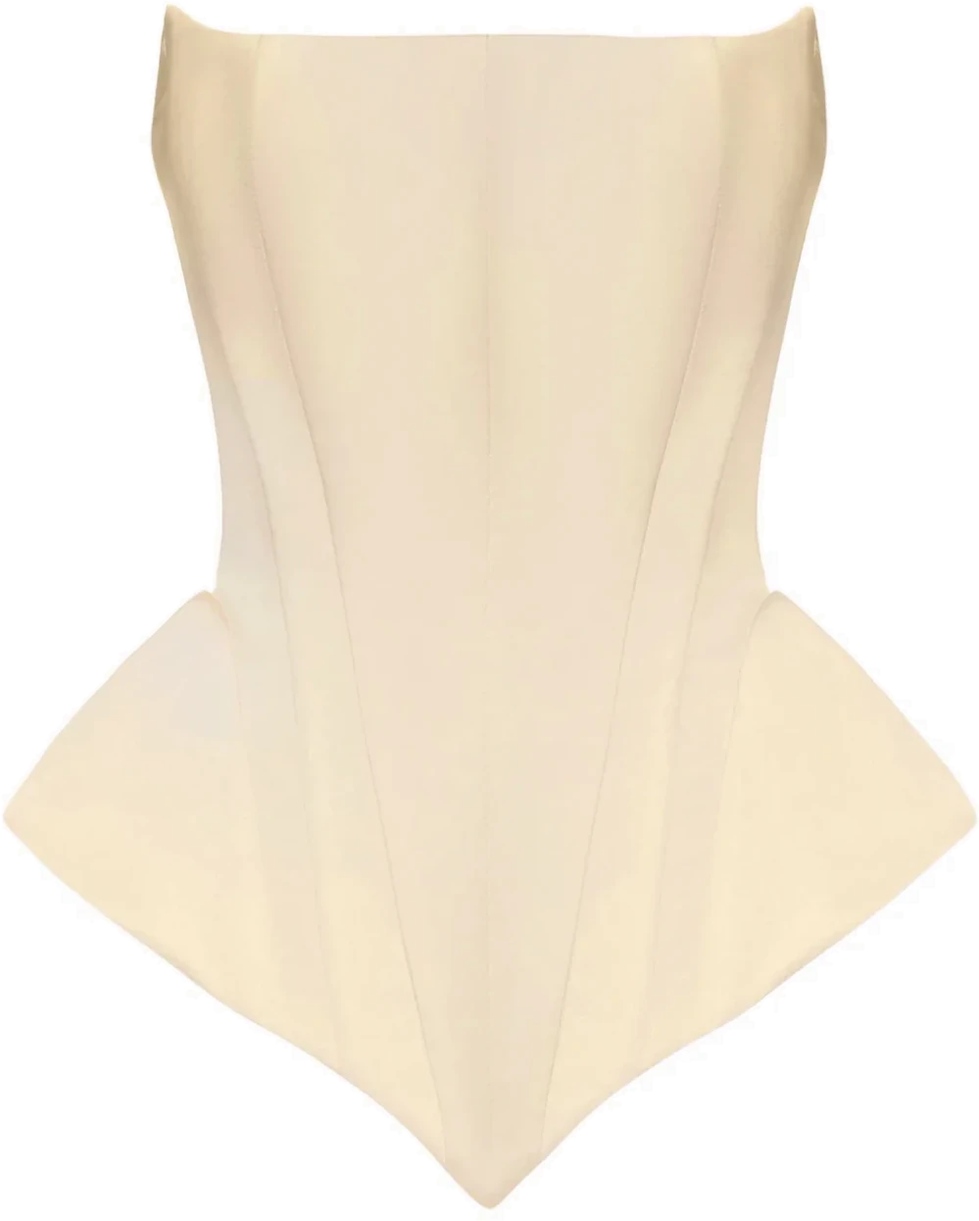
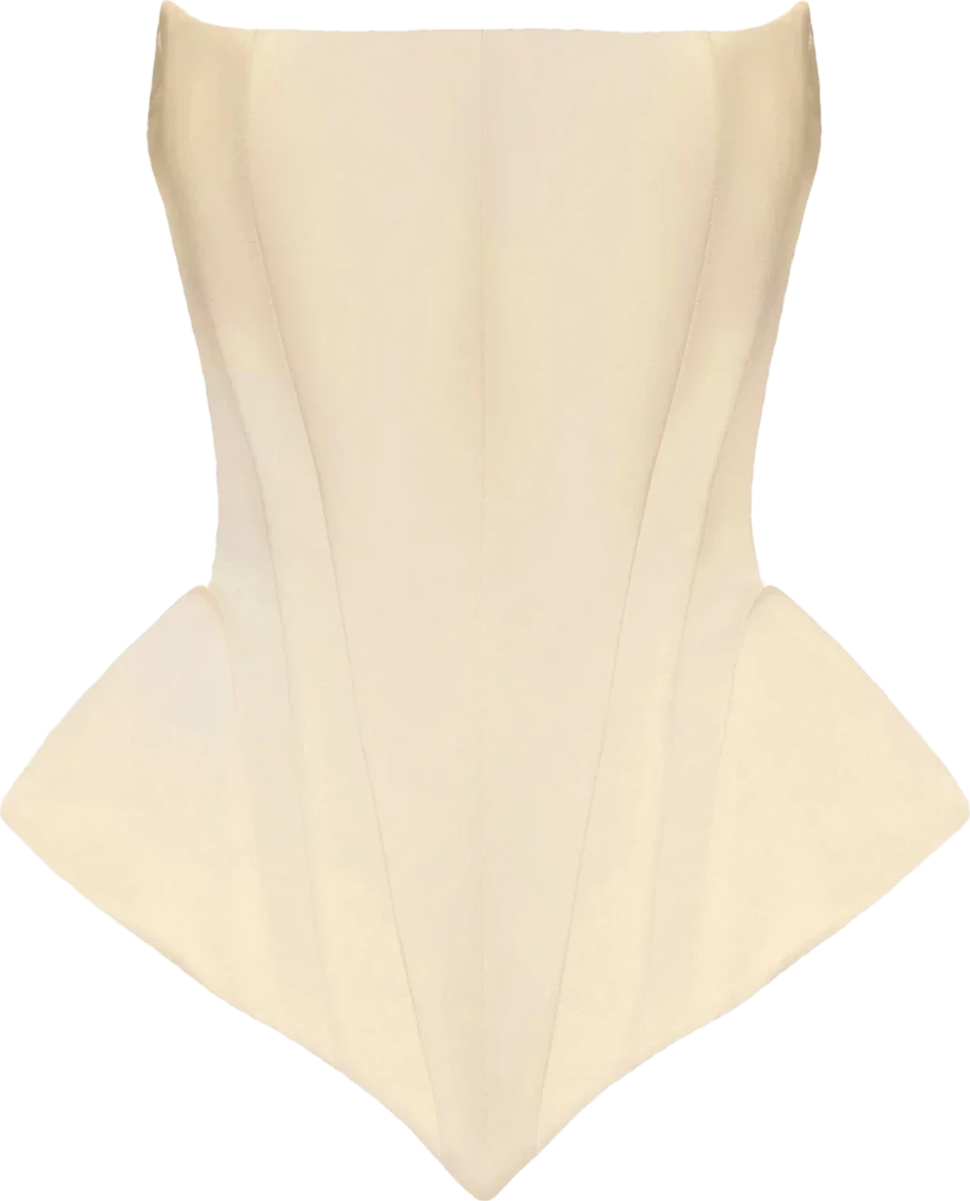
View by product: type filters (clutches/small/large bags, shorts/skirts/pants/jeans, heels…sneakers) and colour-aware order; Cow Print option B; Maria opens Christmas, Wedding, Workouts; Ivory & Leopard first; Pony & Organza pulled; corset recut

diff --git a/index.html b/index.html
@@ -222,6 +222,11 @@ html.loading,html.loading body{overflow:hidden}
 .tabs button small{color:var(--grey);margin-left:var(--s1)}
 .tabs button[aria-pressed="true"]{background:var(--ink);color:var(--white);border-color:var(--ink)}
 .tabs button[aria-pressed="true"] small{color:#bbb}
+.subtabs{display:flex;justify-content:center;flex-wrap:wrap;gap:var(--s2) var(--s6);margin:calc(var(--s6) * -1) 0 var(--s12)}
+.subtabs[hidden]{display:none}
+.subtabs button{font-family:var(--sans);font-size:12px;letter-spacing:.16em;text-transform:uppercase;color:var(--grey);padding:var(--s1) 0;border-bottom:1px solid transparent;transition:color .3s,border-color .3s}
+.subtabs button:hover{color:var(--ink)}
+.subtabs button[aria-pressed="true"]{color:var(--ink);border-color:var(--ink)}
 .grid{display:grid;grid-template-columns:repeat(4,1fr);gap:var(--s12) var(--s6)}
 .grid .card .from{font-family:var(--sans);font-size:12px;letter-spacing:.14em;text-transform:uppercase;color:var(--burnt);margin-top:var(--s3)}
 
@@ -325,6 +330,8 @@ footer .wrap{font-family:var(--sans);font-size:13px;color:var(--grey)}
   .card .ph img{top:7%;left:11%;width:78%;height:66%}
   .tabs{flex-wrap:nowrap;justify-content:flex-start;overflow-x:auto;scrollbar-width:none;margin-inline:-16px;padding-inline:16px;margin-block:var(--s6) var(--s8)}
   .tabs button{flex:none}
+  .subtabs{flex-wrap:nowrap;justify-content:flex-start;overflow-x:auto;scrollbar-width:none;margin-inline:-16px;padding-inline:16px;margin-block:calc(var(--s4) * -1) var(--s8)}
+  .subtabs button{flex:none}
   .grid{grid-template-columns:repeat(2,1fr);gap:var(--s8) var(--s3)}
   .stack-card{top:calc(24px + var(--i) * 12px);min-height:240px;padding:var(--s8) var(--s6)}
   .stack-card p{font-size:16px}
@@ -437,6 +444,7 @@ footer .wrap{font-family:var(--sans);font-size:13px;color:var(--grey)}
     <a class="back" href="#home">Back to the looks</a>
     <header class="shop-head"><span class="kicker">View by product</span><h2>Every piece, by category</h2></header>
     <div class="tabs" id="tabs" role="toolbar" aria-label="Categories"></div>
+    <div class="subtabs" id="subtabs" role="toolbar" aria-label="Type" hidden></div>
     <div class="grid" id="grid"></div>
   </section>
  </div>
@@ -467,13 +475,12 @@ const OCC=[
  {"title":"The Leopard Coat","n":20,"copy":"Leopard, a white tee and washed purple denim.","ar":0.8256,"pieces":[["c07-coat",1.15,11.33,35.95],["c20-jeans",39.99,35.66,27.55],["c20-sweater",64.34,5.61,34.55],["c20-tee",37.12,6.97,32.84],["c20-tote",6.1,72.21,29.36],["c20-boots",70.42,80.16,24.0]],"items":[["c07-coat","Toteme","Long pony hair coat","https://go.shopmy.us/p-100137811","Outerwear"],["c20-tee","Éterne","Short sleeve boxy tee","https://go.shopmy.us/p-100141922","Tops"],["c20-sweater","Tnuck","Genevieve cashmere crewneck","https://go.shopmy.us/p-100142285","Tops"],["c20-jeans","EB Denim","Maria low-rise bootcut jeans","https://go.shopmy.us/p-100138238","Bottoms"],["c20-tote","Kallmeyer","Driving bag in leather","https://go.shopmy.us/p-100147469","Bags"],["c20-boots","Proenza Schouler","Trap ankle boots","https://go.shopmy.us/p-100137715","Shoes"]]},
  {"title":"Fair Isle","n":21,"copy":"Fair isle, red cord and a long black coat. A walk that ends at a café.","ar":0.8694,"pieces":[["p21-coat",62.94,1.37,37.06],["c21-pants",24,40,31.3],["c21-sweater",22.8,1.2,32.27],["c21-bag",0.99,68.08,21.63],["p21-boots",58,73,26.48]],"items":[["c21-sweater","Velvet","Fair isle wool sweater","https://go.shopmy.us/p-101662772","Tops"],["c21-pants","Nili Lotan","Red corduroy barrel pants","https://go.shopmy.us/p-96425627","Bottoms"],["p21-coat","Lisa Yang","Black double-breasted wool coat","https://go.shopmy.us/p-100467887","Outerwear"],["c21-bag","Alaïa","Shearling-trimmed suede bag","https://go.shopmy.us/p-101663713","Bags"],["p21-boots","Khaite","Black leather ankle boots","https://go.shopmy.us/p-101664044","Shoes"]]}]},
 {"id":"social-agenda","name":"Social Agenda","sub":"Cena de amigas, posada familiar, piensa en los eventos de la temporada que tienen un dress code menos formal. Mostly for the girls and the gays.","looks":[
- {"title":"Butter & Zebra","n":104,"copy":"Butter-yellow knit, a wrap trouser and a zebra hobo.","ar":0.693,"pieces":[["c104-sweater",46.38,0.99,39.77],["c104-jacket",1.45,1.99,45.31],["c104-pants",38.45,41.05,30.23],["c104-bag",68.01,38.78,31.0],["c104-flats",21.26,76.43,9.96]],"items":[["c104-jacket","Arma","Melis leather jacket","https://go.shopmy.us/p-101933064","Outerwear"],["c104-sweater","Toteme","Oversized cotton sweater","https://go.shopmy.us/p-101933632","Tops"],["c104-pants","St. Agni","Wrap rouleau wide-leg pants","https://go.shopmy.us/p-101932714","Bottoms"],["c104-bag","Khaite","Small Joan hobo in zebra haircalf","https://go.shopmy.us/p-101934226","Bags"],["c104-flats","The Row","Stella leather slippers","https://go.shopmy.us/p-101934871","Shoes"]],"by":"ericka"},
+ {"title":"Ivory & Leopard","n":106,"copy":"Ivory jacquard, black satin shorts and beaded tassels.","ar":0.8387,"pieces":[["c106-jacket",1.75,3.56,54.99],["c106-earrings",79.42,3.18,11.35],["c106-shorts",50.49,51.57,47.98],["c106-bag",1.34,80.6,34.59],["c106-mules",27.72,64.63,44.11]],"items":[["c106-jacket","Harris Tapper","Eileen tapestry top","https://go.shopmy.us/p-102031643","Outerwear"],["c106-shorts","Brandon Maxwell","Stella silk-satin shorts","https://go.shopmy.us/p-102031638","Bottoms"],["c106-bag","Little Liffner","Pushlock clutch in plum suede","https://go.shopmy.us/p-102033712","Bags"],["c106-mules","Saint Laurent","Babylone Cassandre grosgrain mules","https://go.shopmy.us/p-102190089","Shoes"],["c106-earrings","Pura Utz","Mega tassel beaded earrings","https://go.shopmy.us/p-102031753","Accessories"]],"by":"ericka"},
  {"title":"Velvet & Denim","n":14,"copy":"A velvet jacket with frogging, light denim and zebra boots.","ar":0.775,"pieces":[["c14-jacket",29.53,1.26,49.28],["c14-jeans",41.6,37.52,25.12],["c14-boots",73.18,63.25,25.86],["c14-bag",1.14,77.95,35.64],["c14-earrings",0.77,2.66,20.68]],"items":[["c14-jacket","The New Arrivals","Loulou velvet jacket","https://go.shopmy.us/p-100149915","Outerwear"],["c14-jeans","Citizens of Humanity","Lindz straight jeans","https://go.shopmy.us/p-100150610","Bottoms"],["c14-boots","Britt Netta","Odette calf hair knee boots","https://go.shopmy.us/p-100148866","Shoes"],["c14-bag","Dries Van Noten","Small embellished crossbody","https://go.shopmy.us/p-100206656","Bags"],["c14-earrings","Simone Rocha","Crystal drop earrings","https://go.shopmy.us/p-100251880","Accessories"]]},
- {"title":"Suede & Silk","n":105,"copy":"Suede utility, an ivory cami and a gold-hardware bag.","ar":0.6986,"pieces":[["c105-top",54.27,1.21,38.54],["c105-jacket",4.54,5.93,44.56],["c105-jeans",36.81,40.32,31.73],["c105-bag",73.33,52.96,24.91],["c105-sandals",2.44,82.26,35.83]],"items":[["c105-jacket","Róhe","Oversized suede jacket","https://go.shopmy.us/p-101938874","Outerwear"],["c105-top","St. Agni","Jacquard wool-blend cami","https://go.shopmy.us/p-101937234","Tops"],["c105-jeans","AGOLDE","Lana rigid straight-leg jeans","https://go.shopmy.us/p-101936267","Bottoms"],["c105-bag","Alaïa","Spiral hardware suede bracelet bag","https://go.shopmy.us/p-101986854","Bags"],["c105-sandals","Khaite","Sophie sandal in black patent","https://go.shopmy.us/p-101935509","Shoes"]],"by":"ericka"},
+ {"title":"Butter & Zebra","n":104,"copy":"Butter-yellow knit, a wrap trouser and a zebra hobo.","ar":0.693,"pieces":[["c104-sweater",46.38,0.99,39.77],["c104-jacket",1.45,1.99,45.31],["c104-pants",38.45,41.05,30.23],["c104-bag",68.01,38.78,31.0],["c104-flats",21.26,76.43,9.96]],"items":[["c104-jacket","Arma","Melis leather jacket","https://go.shopmy.us/p-101933064","Outerwear"],["c104-sweater","Toteme","Oversized cotton sweater","https://go.shopmy.us/p-101933632","Tops"],["c104-pants","St. Agni","Wrap rouleau wide-leg pants","https://go.shopmy.us/p-101932714","Bottoms"],["c104-bag","Khaite","Small Joan hobo in zebra haircalf","https://go.shopmy.us/p-101934226","Bags"],["c104-flats","The Row","Stella leather slippers","https://go.shopmy.us/p-101934871","Shoes"]],"by":"ericka"},
  {"title":"Long Lunch","n":15,"copy":"Shearling-collar leather, striped trousers and a studded bag.","ar":0.843,"pieces":[["c15-jacket",1.4,26.83,43.83],["c15-tee",39.48,1.03,38.66],["c15-pants",48.93,36.28,21.02],["c15-bag",75.23,30.18,23.04],["c15-boots",74.35,83.13,24.79]],"items":[["c15-jacket","Stand Studio","Tobie leather jacket","https://go.shopmy.us/p-100139810","Outerwear"],["c15-tee","Perfectwhitetee","Amelia raglan tee","https://go.shopmy.us/p-100145981","Tops"],["c15-pants","High Sport","Luke pant in merlot arrow stripe","https://go.shopmy.us/p-100145051","Bottoms"],["c15-bag","Etro","Kalispera fringed suede bag","https://go.shopmy.us/p-100147090","Bags"],["c15-boots","Khaite","Colt ankle boot","https://go.shopmy.us/p-100145563","Shoes"]]},
- {"title":"Ivory & Leopard","n":106,"copy":"Ivory jacquard, black satin shorts and beaded tassels.","ar":0.8387,"pieces":[["c106-jacket",1.75,3.56,54.99],["c106-earrings",79.42,3.18,11.35],["c106-shorts",50.49,51.57,47.98],["c106-bag",1.34,80.6,34.59],["c106-mules",27.72,64.63,44.11]],"items":[["c106-jacket","Harris Tapper","Eileen tapestry top","https://go.shopmy.us/p-102031643","Outerwear"],["c106-shorts","Brandon Maxwell","Stella silk-satin shorts","https://go.shopmy.us/p-102031638","Bottoms"],["c106-bag","Little Liffner","Pushlock clutch in plum suede","https://go.shopmy.us/p-102033712","Bags"],["c106-mules","Saint Laurent","Babylone Cassandre grosgrain mules","https://go.shopmy.us/p-102190089","Shoes"],["c106-earrings","Pura Utz","Mega tassel beaded earrings","https://go.shopmy.us/p-102031753","Accessories"]],"by":"ericka"}]},
+ {"title":"Suede & Silk","n":105,"copy":"Suede utility, an ivory cami and a gold-hardware bag.","ar":0.6986,"pieces":[["c105-top",54.27,1.21,38.54],["c105-jacket",4.54,5.93,44.56],["c105-jeans",36.81,40.32,31.73],["c105-bag",73.33,52.96,24.91],["c105-sandals",2.44,82.26,35.83]],"items":[["c105-jacket","Róhe","Oversized suede jacket","https://go.shopmy.us/p-101938874","Outerwear"],["c105-top","St. Agni","Jacquard wool-blend cami","https://go.shopmy.us/p-101937234","Tops"],["c105-jeans","AGOLDE","Lana rigid straight-leg jeans","https://go.shopmy.us/p-101936267","Bottoms"],["c105-bag","Alaïa","Spiral hardware suede bracelet bag","https://go.shopmy.us/p-101986854","Bags"],["c105-sandals","Khaite","Sophie sandal in black patent","https://go.shopmy.us/p-101935509","Shoes"]],"by":"ericka"}]},
 {"id":"christmas-eve","name":"Christmas Eve","sub":"Family approved, mostly.","looks":[
- {"title":"Pony & Organza","n":107,"copy":"Black pony hair, sheer organza and an embroidered mini.","ar":0.8964,"pieces":[["c107-top",45.51,3.63,33.43],["c107-coat",1.77,8.39,41.36],["c107-bra",75.31,2.39,23.39],["c107-bag",79.55,24.56,17.53],["c107-skirt",47.07,55.71,43.48],["c107-heels",6.28,79.84,29.46]],"items":[["c107-coat","Nour Hammour","Stella pony hair coat","https://go.shopmy.us/p-102191145","Outerwear"],["c107-top","Kallmeyer","Marfa sheer silk-organza top","https://go.shopmy.us/p-102190650","Tops"],["c107-bra","","Black triangle bralette","","Tops"],["c107-skirt","Françoise","Barbara jacquard mini skirt","https://go.shopmy.us/p-102191774","Bottoms"],["c107-bag","Pura Utz","Rope beaded pouch","https://go.shopmy.us/p-102190864","Bags"],["c107-heels","Saint Laurent","Guermantes patent slingback pumps","https://go.shopmy.us/p-102192231","Shoes"]],"by":"ericka"},
  {"title":"Red Taffeta","n":10,"copy":"A red taffeta top with sharp black tailoring and a chainmail bag.","ar":0.7798,"pieces":[["c10-coat",63.46,8.24,35.26],["p10-top",15.62,0.0,42.56],["c10-pants",41.22,43.37,21.01],["c10-bag",1.07,52.86,18.99],["c09-sandals",65.46,79.87,24.48],["c10-earrings",1.38,13.69,16.21]],"items":[["p10-top","Tove","Red taffeta strapless top","https://go.shopmy.us/p-101658074","Tops"],["c10-pants","Toteme","Mid-rise straight pants","https://go.shopmy.us/p-100263550","Bottoms"],["c10-coat","Róhe","Double-breasted wool coat","https://go.shopmy.us/p-100264329","Outerwear"],["c10-bag","Rabanne","1969 Nano embellished bag","https://go.shopmy.us/p-100265194","Bags"],["c10-earrings","Simone Rocha","Crystal drop earrings","https://go.shopmy.us/p-100251880","Accessories"],["c09-sandals","The Attico","Ornella satin platform sandals","https://go.shopmy.us/p-100263973","Shoes"]]},
  {"title":"Shearling & Satin","n":108,"copy":"Shearling-trimmed leather over ivory satin and gold.","ar":0.8688,"pieces":[["c108-pants",49.79,23.1,36.36],["c108-jacket",1.91,7.2,50.62],["c108-earrings",78.51,0.78,15.13],["c108-bag",75.25,20.37,23.99],["c108-heels",5.71,77.93,36.94]],"items":[["c108-jacket","Nour Hammour","Sofie shearling-trimmed leather jacket","https://go.shopmy.us/p-102192660","Outerwear"],["c108-pants","Róhe","Satin wide-leg pants","https://go.shopmy.us/p-102193291","Bottoms"],["c108-bag","Alaïa","Mini calf hair top-handle bag","https://go.shopmy.us/p-102194734","Bags"],["c108-heels","Saint Laurent","Guermantes patent slingback pumps","https://go.shopmy.us/p-102194209","Shoes"],["c108-earrings","Déhanche","Signet tiger's eye hinge earrings","https://go.shopmy.us/p-102194448","Accessories"]],"by":"ericka"},
  {"title":"Ivory Column","n":11,"copy":"Ivory column dress, velvet coat and a pop of pink.","ar":0.9062,"pieces":[["c08-coat",65.48,2.3,33.46],["c11-dress",37.84,13.19,23.94],["c11-scarf",1.32,40.82,29.88],["c11-bag",1.73,78.85,21.67],["c11-mules",67.87,85.82,25.72],["c11-earrings",7.03,5.07,16.72]],"items":[["c11-dress","Heirlome","Lida silk dress","https://go.shopmy.us/p-100207848","Dresses"],["c08-coat","Mel Usine","Arles velvet corduroy coat","https://go.shopmy.us/p-100154884","Outerwear"],["c11-scarf","Kallmeyer","Zoya sequined velvet scarf","https://go.shopmy.us/p-100153578","Accessories"],["c11-bag","Liffner","Pushlock Lady mini in pink lizard","https://go.shopmy.us/p-100249587","Bags"],["c11-earrings","Simone Rocha","Crystal drop earrings","https://go.shopmy.us/p-100252343","Accessories"],["c11-mules","Femme LA","Kaia satin mules","https://go.shopmy.us/p-100208344","Shoes"]]},
@@ -482,32 +489,34 @@ const OCC=[
 {"id":"nye","name":"NYE","sub":"Overdressed on purpose","looks":[
  {"title":"Chartreuse","n":109,"copy":"A draped chartreuse dress, silver fringe and red velvet.","ar":0.6291,"pieces":[["c109-dress",2.06,3.0,53.4],["c109-bag",51.89,8.42,33.6],["c109-sandals",58.31,74.64,38.53]],"items":[["c109-dress","Siedrés","Toni draped crepe mini dress","https://go.shopmy.us/p-102194944","Dresses"],["c109-bag","Lizzie Fortunato","Gala sequined bag","https://go.shopmy.us/p-102195760","Bags"],["c109-sandals","Jimmy Choo","Jenn velvet slingback sandals","https://go.shopmy.us/p-102195420","Shoes"]],"by":"ericka"},
  {"title":"Leopard at Midnight","n":7,"copy":"Leopard over a satin bubble dress. Midnight, with attitude.","ar":0.8745,"pieces":[["c07-coat",4.0,4.0,39.31],["p07-dress",40.45,22.82,53.81],["p07-sandals",72.91,79.91,27.09],["c07-clutch",1.24,89.45,38.96],["c06-earrings",78.52,0.47,16.24]],"items":[["c07-coat","Toteme","Long pony hair coat","https://go.shopmy.us/p-100137811","Outerwear"],["p07-dress","Balykina","Champagne satin bubble minidress","https://go.shopmy.us/p-101655430","Dresses"],["c06-earrings","Real Fine Studio","Georgian double drops","https://go.shopmy.us/p-100354880","Accessories"],["c07-clutch","Khaite","Donna leather clutch","https://go.shopmy.us/p-100275795","Bags"],["p07-sandals","The Row","Black strappy sandals","https://go.shopmy.us/p-101656197","Shoes"]]},
- {"title":"Ivory Corset","n":110,"copy":"An ivory corset, a draped skirt and a lapin evening bag.","ar":0.7453,"pieces":[["c110-skirt",25.41,33.1,47.35],["c110-top",30.4,1.11,37.37],["c110-choker",1.14,4.93,30.29],["c110-bag",66.52,11.39,29.17],["c110-sandals",62.19,79.89,34.92]],"items":[["c110-top","Balykina","Eva corset","https://go.shopmy.us/p-102396191","Tops"],["c110-skirt","Balykina","Draped satin midi cape-to-skirt","https://go.shopmy.us/p-102397351","Bottoms"],["c110-bag","Khaite","Lilith chain evening bag","https://go.shopmy.us/p-102197929","Bags"],["c110-sandals","Jimmy Choo","Jenn suede slingback sandals","https://go.shopmy.us/p-102195991","Shoes"],["c110-choker","Sauer","Yvonne multi-stone necklace","https://go.shopmy.us/p-102196341","Accessories"]],"by":"ericka"},
+ {"title":"Ivory Corset","n":110,"copy":"An ivory corset, a draped skirt and a lapin evening bag.","ar":0.7453,"pieces":[["c110-skirt",25.41,33.1,47.35],["c110-top",30.26,1.11,37.63],["c110-choker",1.14,4.93,30.29],["c110-bag",66.52,11.39,29.17],["c110-sandals",62.19,79.89,34.92]],"items":[["c110-top","Balykina","Eva corset","https://go.shopmy.us/p-102396191","Tops"],["c110-skirt","Balykina","Draped satin midi cape-to-skirt","https://go.shopmy.us/p-102397351","Bottoms"],["c110-bag","Khaite","Lilith chain evening bag","https://go.shopmy.us/p-102197929","Bags"],["c110-sandals","Jimmy Choo","Jenn suede slingback sandals","https://go.shopmy.us/p-102195991","Shoes"],["c110-choker","Sauer","Yvonne multi-stone necklace","https://go.shopmy.us/p-102196341","Accessories"]],"by":"ericka"},
  {"title":"Gold Hour","n":8,"copy":"An embroidered gold mini, a velvet coat and baroque earrings.","ar":0.8919,"pieces":[["c08-coat",64.82,2.38,34.09],["p08-dress",29.61,15.69,33.48],["c08-sandal",33,75.5,26],["p08-earrings",6.44,3.73,23.18],["c08-clutch",5.96,50.33,16.4]],"items":[["p08-dress","Kallmeyer","Gold embroidered minidress","https://go.shopmy.us/p-101656762","Dresses"],["c08-coat","Mel Usine","Arles velvet corduroy coat","https://go.shopmy.us/p-100154884","Outerwear"],["p08-earrings","Jennifer Behr","Baroque cross earrings","https://go.shopmy.us/p-101657117","Accessories"],["c08-clutch","Topshop","Ember satin envelope clutch","https://go.shopmy.us/p-100259840","Bags"],["c08-sandal","Amina Muaddi","Lori lace-up sandals","https://go.shopmy.us/p-100347454","Shoes"]]},
  {"title":"Black Lace","n":9,"copy":"Black lace, black fur and a crystal choker. Shine on shine.","ar":0.871,"pieces":[["c09-coat",1.42,4.34,44.48],["c09-dress",47.33,19.53,30.66],["c09-sandals",63.55,74.53,27.73],["p09-choker",75.54,3.83,24.46],["p09-clutch",14.59,71.87,34.33]],"items":[["c09-dress","Rodarte","Lace and silk satin minidress","https://go.shopmy.us/p-100258887","Dresses"],["c09-coat","The Frankie Shop","Matera faux fur coat","https://go.shopmy.us/p-100348215","Outerwear"],["p09-choker","Sauer","Crystal drop choker","https://go.shopmy.us/p-101657486","Accessories"],["p09-clutch","Khaite","Ochre leather clutch","https://go.shopmy.us/p-102402729","Bags"],["c09-sandals","The Attico","Ornella satin platform sandals","https://go.shopmy.us/p-100263973","Shoes"]]}]},
 {"id":"morning-after","name":"Morning After","sub":"Low effort, comodidad máxima y lo mejor? Estás lista para quien saque la cámara 9am el 25 de diciembre.","looks":[
  {"title":"Bandana Knit","n":111,"copy":"A green bandana knit, a white tee and black satin.","ar":0.8066,"pieces":[["c111-tee",43.64,2.77,44.17],["c111-jacket",1.59,4.92,49.83],["c111-pants",65.42,29.31,33.01],["c111-bag",38.71,47.58,24.72],["c111-clogs",14.92,82.8,25.79]],"items":[["c111-jacket","Guest in Residence","Wild rag work shirt","https://go.shopmy.us/p-102332060","Outerwear"],["c111-tee","AGOLDE","Adine cotton jersey T-shirt","https://go.shopmy.us/p-102332778","Tops"],["c111-pants","LESET","Barb high-rise wide-leg pants","https://go.shopmy.us/p-102332521","Bottoms"],["c111-bag","Balenciaga","Rodeo mini top-handle bag","https://go.shopmy.us/p-102333111","Bags"],["c111-clogs","Birkenstock","Amsterdam wrapped clogs","https://go.shopmy.us/p-102330810","Shoes"]],"by":"ericka"},
  {"title":"Silk Pyjamas","n":3,"copy":"Silk pyjamas in a medallion print, worn out of the house on purpose.","ar":0.7204,"pieces":[["p03-shirt",20.28,13.51,51.35],["p03-pants",70.57,39.44,26.03],["c03-bag",0.99,50.27,28.14],["p03-tank",75.03,0.0,24.97],["p03-slippers",32.71,86.15,43.49]],"items":[["p03-shirt","The Great","The Dapper shirt in medallion print","https://go.shopmy.us/p-100461723","Tops"],["p03-pants","The Great","The Tailored pull-on pant","https://go.shopmy.us/p-100461911","Bottoms"],["p03-tank","Donni","The Rib tank","https://go.shopmy.us/p-100462812","Tops"],["c03-bag","Saint Laurent","Leopard calf hair hobo","https://go.shopmy.us/p-101653007","Bags"],["p03-slippers","Khaite","Velvet slippers","https://go.shopmy.us/p-101653449","Shoes"]]},
- {"title":"Cow Print","n":112,"copy":"A leather anorak, a layered tee and a cowhide beanie.","ar":0.915,"pieces":[["c112-top",37.29,7.18,41.42],["c112-jacket",1.5,8.92,47.15],["c112-beanie",84.88,3.38,13.92],["c112-pants",57.09,39.39,32.34],["c112-bag",3.25,47.99,17.11],["c112-flats",27.12,85.45,17.7]],"items":[["c112-jacket","Róhe","Oversized leather anorak","https://go.shopmy.us/p-102333644","Outerwear"],["c112-top","Guest in Residence","Layer tee","https://go.shopmy.us/p-102334125","Tops"],["c112-pants","Comme Si","La Boxer Alta flannel pant","https://go.shopmy.us/p-102337220","Bottoms"],["c112-bag","The Row","Park N/S small shoulder bag","https://go.shopmy.us/p-102337837","Bags"],["c112-flats","Le Monde Béryl","Après ski shearling ballet flats","https://go.shopmy.us/p-102335271","Shoes"],["c112-beanie","Guest in Residence","Grizzly cowhide hat","https://go.shopmy.us/p-102334795","Accessories"]],"by":"ericka"},
+ {"title":"Cow Print","n":112,"copy":"A leather anorak, a layered tee and a cowhide beanie.","ar":0.9495,"pieces":[["c112-top",35.94,7.18,39.92],["c112-jacket",1.45,8.92,45.44],["c112-beanie",78.7,1.86,19.61],["c112-pants",55.02,39.39,31.16],["c112-bag",2.08,45.53,21.01],["c112-flats",18.21,82.67,34.12]],"items":[["c112-jacket","Róhe","Oversized leather anorak","https://go.shopmy.us/p-102333644","Outerwear"],["c112-top","Guest in Residence","Layer tee","https://go.shopmy.us/p-102334125","Tops"],["c112-pants","Comme Si","La Boxer Alta flannel pant","https://go.shopmy.us/p-102337220","Bottoms"],["c112-bag","The Row","Park N/S small shoulder bag","https://go.shopmy.us/p-102337837","Bags"],["c112-flats","Le Monde Béryl","Après ski shearling ballet flats","https://go.shopmy.us/p-102335271","Shoes"],["c112-beanie","Guest in Residence","Grizzly cowhide hat","https://go.shopmy.us/p-102334795","Accessories"]],"by":"ericka"},
  {"title":"Coffee Run","n":4,"copy":"Flannel, green sweatpants and suede flats. Coffee run, still put together.","ar":0.7927,"pieces":[["c04-pants",53.33,16.26,40.82],["c04-shirt",0,0,49.64],["c04-tote",0,58.54,43.59],["c04-flats",73.85,91.06,26.15]],"items":[["c04-shirt","Róhe","Checked cotton flannel shirt","https://go.shopmy.us/p-100359980","Tops"],["c04-pants","Éterne","Oversized wide-leg sweatpant","https://go.shopmy.us/p-101653737","Bottoms"],["c04-tote","Kallmeyer","Navy canvas tote","https://go.shopmy.us/p-101654064","Bags"],["c04-flats","The Row","Stella suede ballet flats","https://go.shopmy.us/p-100461025","Shoes"]]}]},
 {"id":"winter-wedding","name":"Winter Wedding","sub":"Las bodas en invierno siempre se sienten más elegantes. More is more this time, bring your fur.","looks":[
- {"title":"Garnet Column","n":113,"copy":"A garnet jacquard column, a fur cocoon and olive satin.","ar":0.6156,"pieces":[["c113-dress",1.07,3.42,33.5],["c113-stole",36.88,11.78,50.57],["c113-band",35.48,55.2,46.45],["c113-heels",41.54,73.76,46.54]],"items":[["c113-dress","The New Arrivals Ilkyaz Özel","Fang jacquard maxi dress","https://go.shopmy.us/p-102338184","Dresses"],["c113-heels","Saint Laurent","Fanny crêpe satin slingback pumps","https://go.shopmy.us/p-102339794","Shoes"],["c113-stole","Nour Hammour","Neck cocoon","https://go.shopmy.us/p-102338661","Accessories"],["c113-band","","Black band","","Accessories"]],"by":"ericka"},
  {"title":"The Guest","n":5,"copy":"Liquid teal satin under a cream fur. The guest everyone asks about.","ar":0.8386,"pieces":[["p05-dress",38.97,0.0,40.93],["c05-fur",1.16,4.86,36.4],["c05-sandals",64.26,76.37,28.83],["c05-clutch",13.11,53.67,20.47],["c05-earrings",80.98,7.35,18.43]],"items":[["p05-dress","Retrofête","Teal satin cowl-neck gown","https://go.shopmy.us/p-100266447","Dresses"],["c05-fur","Ducie","Rochelle shearling jacket","https://go.shopmy.us/p-101064048","Outerwear"],["c05-clutch","Topshop","Ember satin envelope clutch","https://go.shopmy.us/p-100259840","Bags"],["c05-earrings","Julietta","Palais earrings","https://go.shopmy.us/p-100357046","Accessories"],["c05-sandals","Aquazzura","Nuda mirrored sandals","https://go.shopmy.us/p-100262289","Shoes"]]},
- {"title":"Stripes & Olive","n":114,"copy":"A striped silk column, an olive clutch and chocolate suede.","ar":0.6938,"pieces":[["c114-dress",1.01,3.0,29.22],["c114-clutch",25.03,36.87,72.66],["c114-heels",27.44,71.02,62.37]],"items":[["c114-clutch","Khaite","Blake long clutch in golden olive","https://go.shopmy.us/p-102402729","Bags"],["c114-heels","Saint Laurent","Vendome patent slingback pumps","https://go.shopmy.us/p-102568793","Shoes"]],"by":"ericka"},
- {"title":"Black Tie, Mountains","n":6,"copy":"Olive silk, a brown stole and diamonds. Black tie in the mountains.","ar":0.7902,"pieces":[["p06-dress",33.9,5.36,29.94],["c06-stole",65.55,2.19,33.31],["c05-sandals",70.95,78.36,28.01],["p06-clutch",0.0,49.55,34.04],["c06-earrings",4.01,0.47,18.11]],"items":[["p06-dress","Rabanne","Olive embellished satin gown","https://go.shopmy.us/p-101654332","Dresses"],["c06-stole","Mimchik","Faux fur shawl","https://go.shopmy.us/p-101058125","Accessories"],["c06-earrings","Real Fine Studio","Georgian double drops","https://go.shopmy.us/p-100354880","Accessories"],["p06-clutch","","Silver shagreen clutch","","Bags"],["c05-sandals","Aquazzura","Nuda mirrored sandals","https://go.shopmy.us/p-100262289","Shoes"]]}]},
+ {"title":"Garnet Column","n":113,"copy":"A garnet jacquard column, a fur cocoon and olive satin.","ar":0.6156,"pieces":[["c113-dress",1.07,3.42,33.5],["c113-stole",36.88,11.78,50.57],["c113-band",35.48,55.2,46.45],["c113-heels",41.54,73.76,46.54]],"items":[["c113-dress","The New Arrivals Ilkyaz Özel","Fang jacquard maxi dress","https://go.shopmy.us/p-102338184","Dresses"],["c113-heels","Saint Laurent","Fanny crêpe satin slingback pumps","https://go.shopmy.us/p-102339794","Shoes"],["c113-stole","Nour Hammour","Neck cocoon","https://go.shopmy.us/p-102338661","Accessories"],["c113-band","","Black band","","Accessories"]],"by":"ericka"},
+ {"title":"Black Tie, Mountains","n":6,"copy":"Olive silk, a brown stole and diamonds. Black tie in the mountains.","ar":0.7902,"pieces":[["p06-dress",33.9,5.36,29.94],["c06-stole",65.55,2.19,33.31],["c05-sandals",70.95,78.36,28.01],["p06-clutch",0.0,49.55,34.04],["c06-earrings",4.01,0.47,18.11]],"items":[["p06-dress","Rabanne","Olive embellished satin gown","https://go.shopmy.us/p-101654332","Dresses"],["c06-stole","Mimchik","Faux fur shawl","https://go.shopmy.us/p-101058125","Accessories"],["c06-earrings","Real Fine Studio","Georgian double drops","https://go.shopmy.us/p-100354880","Accessories"],["p06-clutch","","Silver shagreen clutch","","Bags"],["c05-sandals","Aquazzura","Nuda mirrored sandals","https://go.shopmy.us/p-100262289","Shoes"]]},
+ {"title":"Stripes & Olive","n":114,"copy":"A striped silk column, an olive clutch and chocolate suede.","ar":0.6938,"pieces":[["c114-dress",1.01,3.0,29.22],["c114-clutch",25.03,36.87,72.66],["c114-heels",27.44,71.02,62.37]],"items":[["c114-clutch","Khaite","Blake long clutch in golden olive","https://go.shopmy.us/p-102402729","Bags"],["c114-heels","Saint Laurent","Vendome patent slingback pumps","https://go.shopmy.us/p-102568793","Shoes"]],"by":"ericka"}]},
 {"id":"winter-workouts","name":"Winter Workouts","sub":"En el gym hace calor, afuera frío, mil pendientes en el inter. We got you 😉","looks":[
- {"title":"Leather & 96","n":117,"copy":"Leather over navy SET, a varsity tee and silver Asics.","ar":0.9938,"pieces":[["c117-jacket",1.26,2.11,39.51],["c117-bra",36.61,5.27,26.65],["c117-shorts",38.97,36.08,21.19],["c117-tee",62.31,4.8,29.96],["c117-sweatshirt",6.78,59.13,35.38],["c117-bag",69.06,46.1,28.77],["c117-sneakers",46.24,60.73,37.39]],"items":[["c117-jacket","Nour Hammour","Roland leather bomber jacket","https://go.shopmy.us/p-102383136","Outerwear"],["c117-bra","SET","Sportbody sporty gym bra","https://go.shopmy.us/p-102385063","Tops"],["c117-tee","Acne Studios","Printed cotton jersey T-shirt","https://go.shopmy.us/p-102385481","Tops"],["c117-sweatshirt","The Frankie Shop","Mirra cotton sweatshirt","https://go.shopmy.us/p-102383552","Tops"],["c117-shorts","SET","Cloud shorts","https://go.shopmy.us/p-102383882","Bottoms"],["c117-bag","The Row","Marlo 12 leather tote","https://go.shopmy.us/p-102388065","Bags"],["c117-sneakers","Asics","GT-2160 sneakers","https://go.shopmy.us/p-102393289","Shoes"]],"by":"ericka"},
  {"title":"Velour Set","n":16,"copy":"Purple velour, a long black coat and silver sneakers.","ar":0.7927,"pieces":[["p16-coat",0,44.4,37],["p16-fleece",1,0,36],["c16-pants",40,47,29],["c16-sweatshirt",64,8,33],["c16-bag",73,49,24],["c16-bra",42,20,20],["c16-sneakers",74,82,23]],"items":[["c16-sweatshirt","Suzie Kondi","Samos velour sweatshirt","https://go.shopmy.us/p-100460042","Tops"],["c16-pants","Suzie Kondi","Lito velour pants","https://go.shopmy.us/p-100460214","Bottoms"],["p16-coat","Lisa Yang","Doublé textured coat","https://go.shopmy.us/p-100467887","Outerwear"],["p16-fleece","Oak + Fort","Black zip fleece","https://go.shopmy.us/p-98517796","Outerwear"],["c16-bra","CSB","Sports bra with yellow trim","https://go.shopmy.us/p-101660809","Tops"],["c16-bag","Lisa Yang","Oma brushed bag","https://go.shopmy.us/p-100468280","Bags"],["c16-sneakers","Asics","Silver running sneakers","https://go.shopmy.us/p-101661427","Shoes"]]},
- {"title":"Rust & Halter","n":118,"copy":"A rust windbreaker, a ribbed halter and green Salomons.","ar":0.8332,"pieces":[["c118-jacket",1.66,5.05,40.44],["c118-halter",40.74,1.26,26.37],["c118-tote",65.2,24.2,31.63],["c118-joggers",47.32,43.57,25.11],["c118-sneakers",14.14,81.71,33.87]],"items":[["c118-jacket","LESET","Kyoto cotton windbreaker","https://go.shopmy.us/p-102388952","Outerwear"],["c118-halter","Splits59","June rib halter","https://go.shopmy.us/p-102388675","Tops"],["c118-joggers","Beyond Yoga","Luxefleece joggers","https://go.shopmy.us/p-102388350","Bottoms"],["c118-tote","The Row","Idaho XL canvas tote","https://go.shopmy.us/p-102390116","Bags"],["c118-sneakers","Salomon","XT-4 OG sneakers","https://go.shopmy.us/p-102389596","Shoes"]],"by":"ericka"},
- {"title":"Teal on Teal","n":17,"copy":"Teal on teal, a fur-trimmed puffer and trail sneakers.","ar":0.9476,"pieces":[["p17-puffer",56.98,0.0,43.02],["p17-top",0.0,3.46,44.89],["p17-pants",35.99,42.36,29.33],["p17-tote",5.15,53.29,28.58],["c17-bra",42.05,2.45,19.56],["c17-sneakers",70.91,77.44,24.63]],"items":[["p17-top","Donni","Sueded jersey stripe long sleeve","https://go.shopmy.us/p-100463173","Tops"],["p17-pants","Donni","Baby rib scallop pant","https://go.shopmy.us/p-100463378","Bottoms"],["c17-bra","CSB","Form micro crop","https://go.shopmy.us/p-100465505","Tops"],["p17-puffer","H&M","Tie-belt puffer coat","https://go.shopmy.us/p-100466898","Outerwear"],["p17-tote","Kallmeyer","Navy canvas tote","https://go.shopmy.us/p-101654064","Bags"],["c17-sneakers","Salomon","Trail sneakers","https://go.shopmy.us/p-101661729","Shoes"]]}]},
+ {"title":"Leather & 96","n":117,"copy":"Leather over navy SET, a varsity tee and silver Asics.","ar":0.9938,"pieces":[["c117-jacket",1.26,2.11,39.51],["c117-bra",36.61,5.27,26.65],["c117-shorts",38.97,36.08,21.19],["c117-tee",62.31,4.8,29.96],["c117-sweatshirt",6.78,59.13,35.38],["c117-bag",69.06,46.1,28.77],["c117-sneakers",46.24,60.73,37.39]],"items":[["c117-jacket","Nour Hammour","Roland leather bomber jacket","https://go.shopmy.us/p-102383136","Outerwear"],["c117-bra","SET","Sportbody sporty gym bra","https://go.shopmy.us/p-102385063","Tops"],["c117-tee","Acne Studios","Printed cotton jersey T-shirt","https://go.shopmy.us/p-102385481","Tops"],["c117-sweatshirt","The Frankie Shop","Mirra cotton sweatshirt","https://go.shopmy.us/p-102383552","Tops"],["c117-shorts","SET","Cloud shorts","https://go.shopmy.us/p-102383882","Bottoms"],["c117-bag","The Row","Marlo 12 leather tote","https://go.shopmy.us/p-102388065","Bags"],["c117-sneakers","Asics","GT-2160 sneakers","https://go.shopmy.us/p-102393289","Shoes"]],"by":"ericka"},
+ {"title":"Teal on Teal","n":17,"copy":"Teal on teal, a fur-trimmed puffer and trail sneakers.","ar":0.9476,"pieces":[["p17-puffer",56.98,0.0,43.02],["p17-top",0.0,3.46,44.89],["p17-pants",35.99,42.36,29.33],["p17-tote",5.15,53.29,28.58],["c17-bra",42.05,2.45,19.56],["c17-sneakers",70.91,77.44,24.63]],"items":[["p17-top","Donni","Sueded jersey stripe long sleeve","https://go.shopmy.us/p-100463173","Tops"],["p17-pants","Donni","Baby rib scallop pant","https://go.shopmy.us/p-100463378","Bottoms"],["c17-bra","CSB","Form micro crop","https://go.shopmy.us/p-100465505","Tops"],["p17-puffer","H&M","Tie-belt puffer coat","https://go.shopmy.us/p-100466898","Outerwear"],["p17-tote","Kallmeyer","Navy canvas tote","https://go.shopmy.us/p-101654064","Bags"],["c17-sneakers","Salomon","Trail sneakers","https://go.shopmy.us/p-101661729","Shoes"]]},
+ {"title":"Rust & Halter","n":118,"copy":"A rust windbreaker, a ribbed halter and green Salomons.","ar":0.8332,"pieces":[["c118-jacket",1.66,5.05,40.44],["c118-halter",40.74,1.26,26.37],["c118-tote",65.2,24.2,31.63],["c118-joggers",47.32,43.57,25.11],["c118-sneakers",14.14,81.71,33.87]],"items":[["c118-jacket","LESET","Kyoto cotton windbreaker","https://go.shopmy.us/p-102388952","Outerwear"],["c118-halter","Splits59","June rib halter","https://go.shopmy.us/p-102388675","Tops"],["c118-joggers","Beyond Yoga","Luxefleece joggers","https://go.shopmy.us/p-102388350","Bottoms"],["c118-tote","The Row","Idaho XL canvas tote","https://go.shopmy.us/p-102390116","Bags"],["c118-sneakers","Salomon","XT-4 OG sneakers","https://go.shopmy.us/p-102389596","Shoes"]],"by":"ericka"}]},
 {"id":"ski-trip","name":"Ski Trip","sub":"Ski level irrelevant","looks":[
  {"title":"Olive One-Piece","n":115,"copy":"An olive one-piece, a moon bag and padded snow boots.","ar":0.5605,"pieces":[["c115-onepiece",2.09,3.0,51.42],["c115-bag",63.19,29.43,32.13],["c115-beanie",68.09,6.2,22.32],["c115-boots",62.74,81.52,35.1]],"items":[["c115-onepiece","Arc'teryx","Incendia one-piece","https://go.shopmy.us/p-102378014","Outerwear"],["c115-bag","The Row","Small Izzy leather bag","https://go.shopmy.us/p-102378324","Bags"],["c115-boots","Moncler","Altive mid snow boots","https://go.shopmy.us/p-102378669","Shoes"],["c115-beanie","Lisa Yang","Brushed cashmere beanie","https://go.shopmy.us/p-102378890","Accessories"]],"by":"ericka"},
  {"title":"First Lift","n":1,"copy":"Burgundy down, gingham and a shearling tote. First lift to last fondue.","ar":0.7986,"pieces":[["c01-sweater",39.23,1.49,38.93],["c01-jacket",1.24,21.87,34.86],["c01-pants",48.11,37.25,20.95],["c01-tote",13.08,62.97,23.1],["c01-boots",71.19,74.9,27.9]],"items":[["c01-jacket","Cordova","Meribel hooded ski jacket","https://go.shopmy.us/p-101066133","Outerwear"],["c01-sweater","Lisa Yang","Zerlina cashmere turtleneck","https://go.shopmy.us/p-101068764","Tops"],["c01-pants","Cordova","Sella belted gingham ski pants","https://go.shopmy.us/p-101065114","Bottoms"],["c01-tote","Khaite","Zoe shearling-paneled tote","https://go.shopmy.us/p-101070129","Bags"],["c01-boots","Phoebe Philo","Leather ankle boots","https://go.shopmy.us/p-101068419","Shoes"]]},
  {"title":"Alpine Fleece","n":116,"copy":"Navy gloss, a mountain fleece and Moon Boots.","ar":0.762,"pieces":[["c116-pants",40.56,17.9,29.36],["c116-puffer",1.46,1.74,45.7],["c116-fleece",41.85,5.68,56.25],["c116-bag",2.74,58.02,36.99],["c116-sunglasses",76.08,58.16,15.25],["c116-boots",54.39,76.38,34.96]],"items":[["c116-puffer","Aztech Mountain","Minnie Nuke puffer","https://go.shopmy.us/p-102398821","Outerwear"],["c116-fleece","Conner Ives x goop","Aspen fleece","https://go.shopmy.us/p-102380599","Outerwear"],["c116-pants","Aztech Mountain","Bella softshell high-waist trouser","https://go.shopmy.us/p-102402263","Bottoms"],["c116-bag","Balenciaga","Le City medium shoulder bag","https://go.shopmy.us/p-102382263","Bags"],["c116-boots","Moon Boot","Ltrack low snow boots","https://go.shopmy.us/p-102381357","Shoes"],["c116-sunglasses","Tom Ford","Bronson aviator sunglasses","https://go.shopmy.us/p-102381824","Accessories"]],"by":"ericka"},
  {"title":"Après Ski","n":2,"copy":"A one-piece in chocolate, houndstooth on top and a cosy beanie.","ar":0.8299,"pieces":[["c02-suit",34.72,11.01,32.55],["c02-turtleneck",70.35,2.7,28.67],["c02-vest",0.83,31.75,25.85],["c02-bag",4.32,73.54,29.73],["c02-beanie",6.24,0.82,23.27],["c02-boots",65.75,80.81,28.5]],"items":[["c02-suit","We Norwegians","Finse ski suit","https://go.shopmy.us/p-100470285","Outerwear"],["c02-vest","We Norwegians","Glenshee houndstooth ski vest","https://go.shopmy.us/p-100493061","Outerwear"],["c02-turtleneck","We Norwegians","Geilo wool-blend turtleneck","https://go.shopmy.us/p-100492218","Tops"],["c02-beanie","Suzie Kondi","Lumi ribbed cashmere beanie","https://go.shopmy.us/p-100493839","Accessories"],["c02-bag","Etro","Pony small shearling bag","https://go.shopmy.us/p-101069633","Bags"],["c02-boots","Moon Boot","Combat felt boots","https://go.shopmy.us/p-100493609","Shoes"]]}]}];
 const CATS=["Outerwear", "Tops", "Bottoms", "Dresses", "Bags", "Shoes", "Accessories"];
+const PMETA={"c101-jacket":["Jackets","blue"],"c101-sweater":["Knits","brown"],"c101-jeans":["Jeans","white"],"c101-bag":["Small bags","grey"],"c101-boots":["Boots","black"],"c18-jacket":["Jackets","grey"],"c18-sweater":["Knits","white"],"c18-jeans":["Jeans","blue"],"p18-fairisle":["Knits","grey"],"c18-clutch":["Small bags","grey"],"c18-booties":["Boots","brown"],"c102-jacket":["Jackets","red"],"c102-shirt":["Shirts","brown"],"c102-top":["Tees & tanks","white"],"c102-pants":["Pants","red"],"c102-bag":["Small bags","black"],"c102-boots":["Boots","red"],"p19-coat":["Coats","brown"],"c19-sweater":["Knits","white"],"c19-jeans":["Jeans","black"],"c19-bag":["Large bags","brown"],"p19-flats":["Flats","pink"],"c103-jacket":["Jackets","black"],"c103-tee":["Tees & tanks","white"],"c103-pants":["Pants","red"],"c103-bag":["Large bags","tan"],"c103-sneakers":["Sneakers","blue"],"c07-coat":["Coats","black"],"c20-tee":["Tees & tanks","white"],"c20-sweater":["Knits","black"],"c20-jeans":["Jeans","purple"],"c20-tote":["Large bags","black"],"c20-boots":["Boots","black"],"c21-sweater":["Knits","grey"],"c21-pants":["Pants","red"],"p21-coat":["Coats","black"],"c21-bag":["Small bags","brown"],"p21-boots":["Boots","black"],"c106-jacket":["Jackets","white"],"c106-shorts":["Shorts","black"],"c106-bag":["Clutches","purple"],"c106-mules":["Heels","brown"],"c106-earrings":["Earrings","cream"],"c14-jacket":["Jackets","black"],"c14-jeans":["Jeans","blue"],"c14-boots":["Boots","brown"],"c14-bag":["Small bags","brown"],"c14-earrings":["Earrings","white"],"c104-jacket":["Jackets","black"],"c104-sweater":["Knits","cream"],"c104-pants":["Pants","black"],"c104-bag":["Small bags","grey"],"c104-flats":["Flats","red"],"c15-jacket":["Jackets","black"],"c15-tee":["Tees & tanks","white"],"c15-pants":["Pants","red"],"c15-bag":["Large bags","black"],"c15-boots":["Boots","black"],"c105-jacket":["Jackets","brown"],"c105-top":["Tees & tanks","white"],"c105-jeans":["Jeans","blue"],"c105-bag":["Small bags","black"],"c105-sandals":["Sandals","black"],"p10-top":["Statement","red"],"c10-pants":["Pants","black"],"c10-coat":["Coats","black"],"c10-bag":["Small bags","grey"],"c10-earrings":["Earrings","white"],"c09-sandals":["Sandals","black"],"c108-jacket":["Jackets","black"],"c108-pants":["Pants","white"],"c108-bag":["Small bags","black"],"c108-heels":["Heels","brown"],"c108-earrings":["Earrings","tan"],"c11-dress":["Long","cream"],"c08-coat":["Coats","black"],"c11-scarf":["Scarves & stoles","black"],"c11-bag":["Small bags","pink"],"c11-earrings":["Earrings","grey"],"c11-mules":["Heels","pink"],"p12-coat":["Coats","brown"],"p12-top":["Statement","brown"],"c12-skirt":["Skirts","yellow"],"c07-clutch":["Clutches","black"],"p12-boot":["Boots","black"],"c13-sweater":["Knits","white"],"p13-pants":["Pants","black"],"c13-clutch":["Clutches","blue"],"c13-earrings":["Earrings","tan"],"p13-mules":["Heels","red"],"c109-dress":["Minis","yellow"],"c109-bag":["Clutches","grey"],"c109-sandals":["Sandals","red"],"p07-dress":["Minis","cream"],"c06-earrings":["Earrings","white"],"p07-sandals":["Sandals","black"],"c110-top":["Statement","cream"],"c110-skirt":["Skirts","white"],"c110-bag":["Small bags","black"],"c110-sandals":["Sandals","yellow"],"c110-choker":["Necklaces","red"],"p08-dress":["Minis","cream"],"p08-earrings":["Earrings","tan"],"c08-clutch":["Clutches","purple"],"c08-sandal":["Sandals","cream"],"c09-dress":["Minis","black"],"c09-coat":["Coats","black"],"p09-choker":["Necklaces","grey"],"p09-clutch":["Clutches","tan"],"c111-jacket":["Jackets","green"],"c111-tee":["Tees & tanks","white"],"c111-pants":["Pants","black"],"c111-bag":["Small bags","red"],"c111-clogs":["Flats","cream"],"p03-shirt":["Shirts","red"],"p03-pants":["Pants","red"],"p03-tank":["Tees & tanks","black"],"c03-bag":["Small bags","brown"],"p03-slippers":["Flats","black"],"c112-jacket":["Jackets","black"],"c112-top":["Tees & tanks","pink"],"c112-pants":["Pants","grey"],"c112-bag":["Small bags","black"],"c112-flats":["Flats","brown"],"c112-beanie":["Hats","brown"],"c04-shirt":["Shirts","grey"],"c04-pants":["Pants","green"],"c04-tote":["Large bags","blue"],"c04-flats":["Flats","black"],"p05-dress":["Long","blue"],"c05-fur":["Jackets","white"],"c05-clutch":["Clutches","purple"],"c05-earrings":["Earrings","white"],"c05-sandals":["Sandals","cream"],"c113-dress":["Long","red"],"c113-heels":["Heels","brown"],"c113-stole":["Scarves & stoles","black"],"c113-band":["Hats","black"],"p06-dress":["Long","black"],"c06-stole":["Scarves & stoles","black"],"p06-clutch":["Clutches","grey"],"c114-clutch":["Clutches","tan"],"c114-heels":["Heels","brown"],"c16-sweatshirt":["Knits","purple"],"c16-pants":["Pants","purple"],"p16-coat":["Coats","black"],"p16-fleece":["Ski & fleece","black"],"c16-bra":["Active","blue"],"c16-bag":["Large bags","grey"],"c16-sneakers":["Sneakers","grey"],"c117-jacket":["Jackets","red"],"c117-bra":["Active","blue"],"c117-tee":["Tees & tanks","red"],"c117-sweatshirt":["Knits","grey"],"c117-shorts":["Shorts","black"],"c117-bag":["Large bags","black"],"c117-sneakers":["Sneakers","black"],"p17-top":["Tees & tanks","blue"],"p17-pants":["Pants","blue"],"c17-bra":["Active","black"],"p17-puffer":["Coats","black"],"p17-tote":["Large bags","blue"],"c17-sneakers":["Sneakers","brown"],"c118-jacket":["Jackets","brown"],"c118-halter":["Active","black"],"c118-joggers":["Pants","grey"],"c118-tote":["Large bags","brown"],"c118-sneakers":["Sneakers","white"],"c115-onepiece":["Ski & fleece","brown"],"c115-bag":["Small bags","grey"],"c115-boots":["Boots","cream"],"c115-beanie":["Hats","black"],"c01-jacket":["Ski & fleece","red"],"c01-sweater":["Knits","black"],"c01-pants":["Pants","red"],"c01-tote":["Large bags","brown"],"c01-boots":["Boots","black"],"c116-puffer":["Ski & fleece","blue"],"c116-fleece":["Ski & fleece","blue"],"c116-pants":["Pants","black"],"c116-bag":["Large bags","black"],"c116-boots":["Boots","brown"],"c116-sunglasses":["Sunglasses","grey"],"c02-suit":["Ski & fleece","black"],"c02-vest":["Ski & fleece","brown"],"c02-turtleneck":["Knits","red"],"c02-beanie":["Hats","black"],"c02-bag":["Small bags","brown"],"c02-boots":["Boots","black"]};
+const SUBS={"Outerwear": ["Coats", "Jackets", "Ski & fleece"], "Tops": ["Knits", "Shirts", "Tees & tanks", "Statement", "Active"], "Bottoms": ["Shorts", "Skirts", "Pants", "Jeans"], "Dresses": ["Minis", "Long"], "Bags": ["Clutches", "Small bags", "Large bags"], "Shoes": ["Heels", "Sandals", "Flats", "Boots", "Sneakers"], "Accessories": ["Earrings", "Necklaces", "Scarves & stoles", "Hats", "Sunglasses"]};
 /* bumped on every build so phones never show a stale photo */
-const V="1794165668";
+const V="1794166428";
 document.querySelectorAll(".buyer-name").forEach(e=>e.textContent=BUYER.name);
 const LOOKS=OCC.flatMap(o=>o.looks.map(l=>({...l,occ:o.name})));
 const looksLabel=n=>n>1?`${n} looks`:"1 look";
@@ -630,16 +639,36 @@ const PRODUCTS=[];{
   const seen={};
   LOOKS.forEach(l=>l.items.forEach(it=>{const k=keyOf(it);if(seen[k]){seen[k].looks.add(l.occ);return}seen[k]={it,looks:new Set([l.occ])};PRODUCTS.push(seen[k])}));
 }
-const tabsEl=document.getElementById("tabs"),gridEl=document.getElementById("grid");
-let activeCat="All";
+const tabsEl=document.getElementById("tabs"),subEl=document.getElementById("subtabs"),gridEl=document.getElementById("grid");
+let activeCat="All",activeSub="All";
+/* Order inside View by product: category, then type (clutches → small → large bags, shorts → skirts → pants → jeans, heels → … → sneakers),
+   and never two pieces of the same colour side by side when it can be avoided */
+const metaOf=p=>PMETA[p.it[0]]||["",""];
+const rankOf=p=>{const c=p.it[4],subs=SUBS[c]||[];return CATS.indexOf(c)*100+Math.max(0,subs.indexOf(metaOf(p)[0]))};
+function arrange(list){
+  const groups=[];list.slice().sort((a,b)=>rankOf(a)-rankOf(b)).forEach(p=>{const r=rankOf(p);if(!groups.length||groups.at(-1).r!==r)groups.push({r,items:[]});groups.at(-1).items.push(p)});
+  const out=[];let last="";
+  groups.forEach(g=>{const pool=g.items.slice();while(pool.length){let k=pool.findIndex(p=>metaOf(p)[1]!==last);
+    if(k<0)k=0;const cnt={};pool.forEach(p=>cnt[metaOf(p)[1]]=(cnt[metaOf(p)[1]]||0)+1);
+    const ok=pool.map((p,j)=>j).filter(j=>metaOf(pool[j])[1]!==last);if(ok.length)k=ok.sort((a,b)=>cnt[metaOf(pool[b])[1]]-cnt[metaOf(pool[a])[1]])[0];
+    const p=pool.splice(k,1)[0];out.push(p);last=metaOf(p)[1]}});
+  return out;
+}
+function renderSubs(){
+  const subs=activeCat==="All"?[]:(SUBS[activeCat]||[]).filter(s=>PRODUCTS.some(p=>p.it[4]===activeCat&&metaOf(p)[0]===s));
+  subEl.hidden=subs.length<2;
+  subEl.innerHTML=["All",...subs].map(s=>`<button data-sub="${s}" aria-pressed="${s===activeSub}">${s}</button>`).join("");
+}
 function renderGrid(){
-  const list=PRODUCTS.filter(p=>activeCat==="All"||p.it[4]===activeCat);
+  const list=arrange(PRODUCTS.filter(p=>(activeCat==="All"||p.it[4]===activeCat)&&(activeSub==="All"||metaOf(p)[0]===activeSub)));
   gridEl.innerHTML=list.map(p=>card(p.it,keyOf(p.it),`<span class="from">${[...p.looks].join(" · ")}</span>`)).join("");
   tabsEl.querySelectorAll("button").forEach(b=>b.setAttribute("aria-pressed",b.dataset.cat===activeCat));
+  subEl.querySelectorAll("button").forEach(b=>b.setAttribute("aria-pressed",b.dataset.sub===activeSub));
 }
 tabsEl.innerHTML=["All",...CATS].filter(c=>c==="All"||PRODUCTS.some(p=>p.it[4]===c)).map(c=>`<button data-cat="${c}" aria-pressed="false">${c}<small>${c==="All"?PRODUCTS.length:PRODUCTS.filter(p=>p.it[4]===c).length}</small></button>`).join("");
-tabsEl.addEventListener("click",e=>{const b=e.target.closest("button");if(!b)return;activeCat=b.dataset.cat;renderGrid()});
-renderGrid();
+tabsEl.addEventListener("click",e=>{const b=e.target.closest("button");if(!b)return;activeCat=b.dataset.cat;activeSub="All";renderSubs();renderGrid()});
+subEl.addEventListener("click",e=>{const b=e.target.closest("button");if(!b)return;activeSub=b.dataset.sub;renderGrid()});
+renderSubs();renderGrid();
 
 /* Shop drawer */
 const drawer=document.getElementById("drawer"),scrim=document.getElementById("scrim"),cardsEl=document.getElementById("cards");
